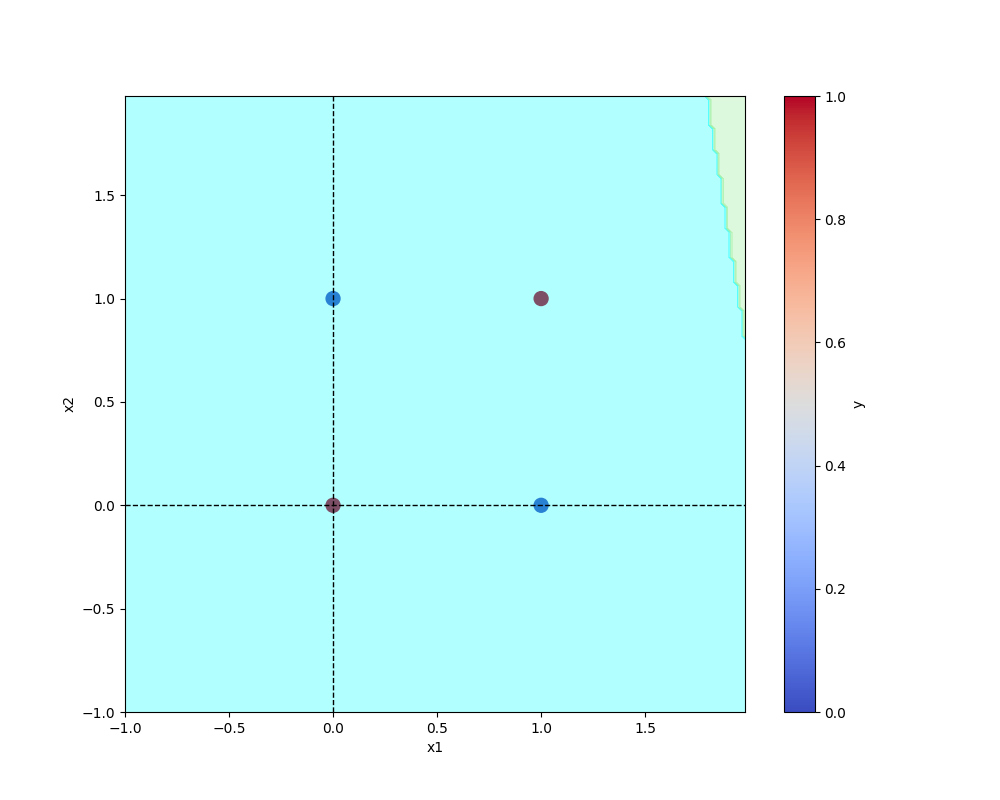
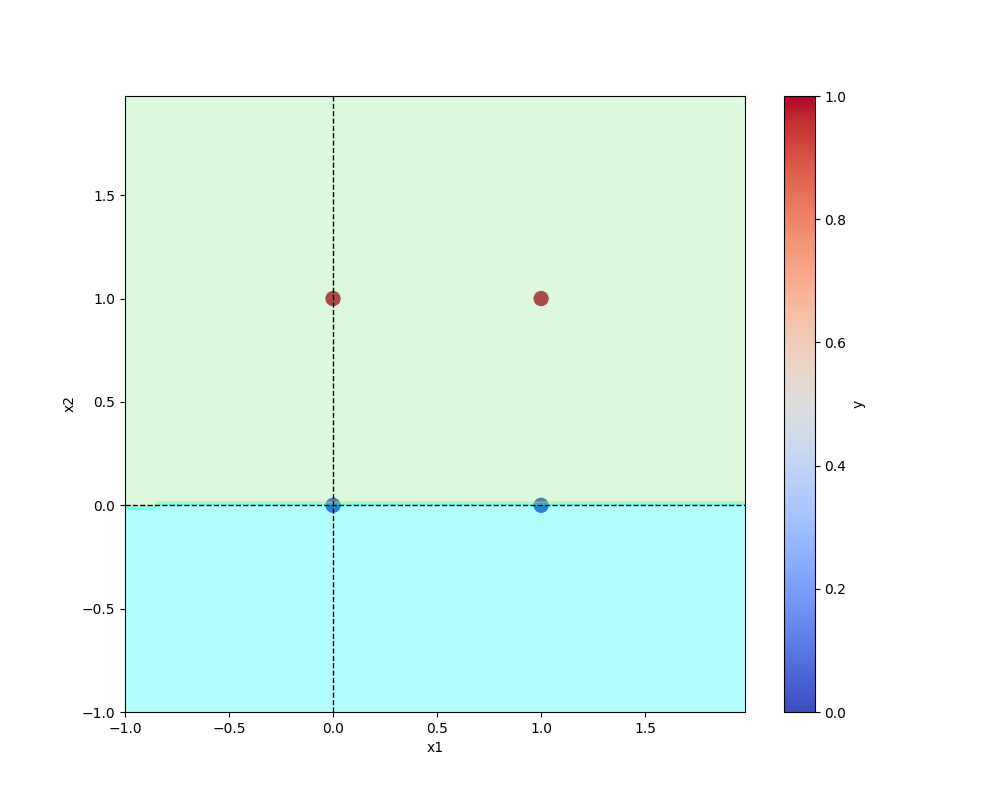
changes done

diff --git a/setup.py b/setup.py
@@ -1,0 +1,26 @@
+import setuptools
+
+with open("README.md", "r", encoding="utf-8") as fh:
+    long_description = fh.read()
+
+setuptools.setup(
+    name="",
+    version="0.0.1",
+    author="Aayush007A",
+    author_email="upadhyaychirag851@gmail.com",
+    description="A simple perceptron package",
+    long_description=long_description,
+    long_description_content_type="text/markdown",
+    url="",
+    project_urls={
+        "Bug Tracker":"https://github.com/pypa/sampleproject/issues"
+    },
+    classifiers=[
+        "Programming Language :: Python :: 3",
+        "License :: OSI Approved :: MIT License",
+        "Operating System :: OS Independent",
+    ],
+    package_dir={"":"src"},
+    packages=setuptools.find_packages(where="src"),
+    python_requires = ">=3.10", 
+)

diff --git a/xnor.py b/xnor.py
@@ -43,11 +43,11 @@ if __name__ == "__main__":
     XNOR = {
         "x1":[0,0,1,1],
         "x2":[0,1,0,1],
-        "y":[1,0,0,1]
+        "y":[0,1,0,1]
     }
 
     ETA = 0.01
-    EPOCHS = 10
+    EPOCHS = 20
     MODELNAME = "XNOR.model"
     PLOTNAME = "xnor_result.png"
 

diff --git a/README.md b/README.md
@@ -1,0 +1,5 @@
+# Example Package
+
+This is a simple example package. You can use
+[GitHub-flavored Markdown](https://guides.github.com/features/mastering-markdown/)
+to write your content.
